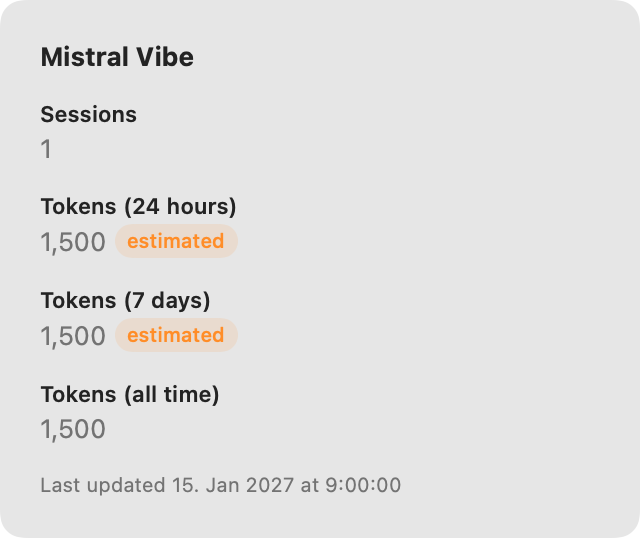
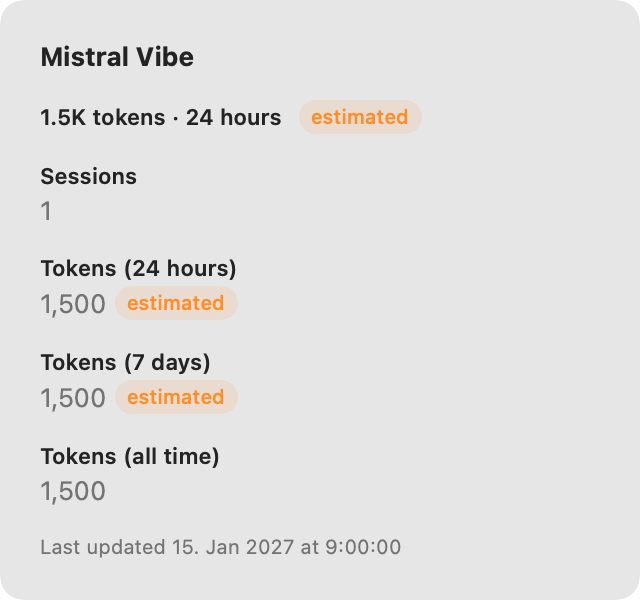
Pre-clear log: session 7 final handoff — 4.4 glance line, 17/17 tasks
Spec, CHANGELOG, verification README, plan (task 4.4 + execution log),
PROJECT_STATE, session log, and index synced. Fresh Release build
handed off and running.

Generated by Mistral Vibe.

diff --git a/docs/plans/2026-10-29-multi-provider-hud/IMPLEMENTATION_PLAN.md b/docs/plans/2026-10-29-multi-provider-hud/IMPLEMENTATION_PLAN.md
@@ -4,7 +4,7 @@
 > Repair scheduling errors while preserving task IDs, completed evidence and approved scope.
 > Task state/evidence is authoritative here; TASKS links here and holds backlog/inbox.
 
-**Progress:** 16/16 code tasks (v1 13 + Wave 4) + E1 passed; external acceptance: E2 (notarized 0.1.0 release); user glance-verification of the Wave 4 UI on the running build.
+**Progress:** 17/17 code tasks (v1 13 + Wave 4) + E1 passed; external acceptance: E2 (notarized 0.1.0 release); user glance-verification of the Wave 4 UI on the running build.
 **Task states:** unchecked = pending / implemented-unverified / blocked (name gate);
 checked = complete with required evidence. Task identity includes this plan path plus ID.
 
@@ -171,6 +171,13 @@ criteria must pass). Summary:
   - Success: full suite green; fixture renders refreshed for the new states (collapsed headline, expanded detail, Vibe with budget); verification README updated
   - Backpressure: full suite + regenerated renders
 
+- [x] **4.4**: Vibe no-budget glance line
+  - Depends on: 4.2 (user-selected at the 4.3 handoff review: collapsed Vibe with no budget showed nothing)
+  - Owns: `VibeJournalAggregator.swift` (per-session window totals), `VibeUsageProvider.swift`, `ProviderModels.swift` (`SectionGlanceLine`), `UsageStatusView.swift` (glance rendering + tooltip)
+  - Interface: sections without a headline can carry a compact preformatted glance line
+  - Success: collapsed Vibe (no budget, recent activity) shows "≈ $X · N tokens · 24 hours" (spend only when every contributing session's model price resolves — the same all-or-nothing rule as the cost line; tokens-only otherwise); estimate-labeled; suppressed when the window is empty; renders refreshed
+  - Backpressure: provider tests (glance construction, price suppression, budget precedence, empty window) + full suite
+
 ## External checks
 
 - [x] **E1**: Fresh-build smoke test (user-operated) — **passed 2026-10-29** (session 5: user screenshots + live compare against ChatGPT/Codex, Claude, and Mistral usage pages; hotkey toggled; Codex 11% used ↔ ChatGPT 89% left, same reset time; Claude endpoint 2xx after sign-in refresh — 0%/7-day matches Claude's page; Vibe populates; absent-provider states covered by 3.2 fixture renders; the app itself never prompted for or stored credentials). **Acceptance follow-ups recorded:** (1) user requests headline "% left until next reset" + details (tokens etc.) behind hover/click — new scoped change, spec/plan update pending; (2) number-formatting defects seen live (Codex credits "74,172,73", Vibe tokens "42,817.996"); (3) Claude 5-hour window absent in the live section despite the web page showing a current-session window — investigate during that change.
@@ -208,6 +215,7 @@ criteria must pass). Summary:
 | Wave 2 (2.1→2.2→2.3) 2026-10-29 | Serial coordinator execution — integration tasks share the views/composition-root surface, so no independent fresh-context work existed; delegation offered no benefit | `xcodegen generate` + full `xcodebuild test` (app-hosted, user-authorized for this wave) green at each task boundary: 98/98 (2.1), 112/112 (2.2), 116/116 (2.3) — new coverage: CodexUsageProviderTests (identity, section mapping incl. resets/expiry/unlimited/zero-passes, error→state mapping), ClaudeUsageProviderTests (endpoint meters/deadlines incl. both resets_at formats, labeled local fallback, not-detected, 403 fallback, 429 retains unavailable, transport failure), VibeUsageProviderTests (scan rows + cost when model resolves, cost omitted when unresolvable, unattributed windows flagged as estimates, skipped/malformed notes, absent/empty store), UsagePreferencesTests (injected defaults suite) | Three task commits: "Wave 2 task 2.1: multi-provider HUD views, Codex provider conformance, composition root" (62cc4ae), "Wave 2 task 2.2: Claude and Vibe sections live" (aa94c96), "Wave 2 task 2.3: preferences, renewal timers, menu parity" (bbdd5e6) | Wave 3 ready (3.1 and 3.2 after 2.3); E1/E2 open. Note: meters render utilization ("X% used") rather than CUS's "X% remaining" — the normalized model carries one utilization fraction for all providers; E1 acceptance can revisit wording. Interactive behaviors (hotkey toggle, live sections populating, restart) fold into E1 |
 | Wave 3 (3.1 ∥ 3.2) 2026-10-29 | 2 parallel fresh-context agents (release pipeline; verification/renders) — disjoint file ownership; coordinator integrated + committed. Same-session preamble: Claude endpoint diagnosis closed (401 = stale stored token; implementation verified end-to-end; labeled fallback engaged as designed; endpoint stays primary) — commit 38ecefb | 3.1: real `release.sh 0.1.0` run — universal unsigned build (`lipo`: x86_64 arm64), CFBundleShortVersionString 0.1.0 match, second run refuses overwrite (exit 1); `zsh -n` on both scripts; notarize script NOT executed (E2 credentials). CI implemented + YAML-validated; **CI green-on-push unverifiable — repo has no git remote**. 3.2: full suite (app-hosted, user-authorized this session) 116/116 baseline then **119/119 green** with the 3 new SectionFixtureRenderTests, re-run confirmed with byte-identical renders; 15 fixture PNGs (3 providers × 5 states) checked in under `docs/verification/2026-10-29-multi-provider-hud/` + regeneration README; 15 #Preview declarations share the fixture catalog. Coordinator: fresh Release handoff — old Debug instance quit gracefully (PID 66578 confirmed exited), fresh `dist/0.1.0/LLM-UsageStatus.app` launched and verified (PID 93177, executable path + version 0.1.0) | "Wave 3 task 3.1: release pipeline and repo surface" (e7ef277); "Wave 3 task 3.2: full verification and fixture renders" (439a09a); dist/ artifacts intentionally uncommitted | 13/13 code tasks complete; E1 next (user-operated smoke test of the running fresh artifact — run Claude Code once first to refresh the stale token, then check the Claude section shows endpoint utilization); E2 after E1. Open notes: Codex estimate-fallback fixture exercises view capability only (Codex section never sets isEstimate — documented in verification README); .gitignore lacks a dist/ entry (decide at E2 whether release evidence is committed) |
 | Wave 4 (4.1→4.2→4.3) 2026-10-29 | Serial coordinator execution — model/view/provider changes share the section surface; no independent fresh-context work. Design accepted by the user at E1 review (Both expand+hover / Budget-per-day quote / Vibe manual budget + token-first fallback); spec amended before coding | 4.1: headline-first sections — `SectionHeadline`/`SectionDailyBudget` model, Codex weekly headline with credits-per-day quote, Claude soonest-reset headline, "% left" meters, click-to-expand + `.help()` hover summary, Claude window-presence diagnostics (live evidence 16:31: five_hour present util=200%, seven_day 0% — the E1 "missing five-hour meter" was never an absent window). 4.2: persisted Vibe budget (USD + reset day, AppKit editor window via right-click menu), estimated % left + $/day headline that suppresses when the cost cannot resolve. Full suite **129/129 green** (10 new tests: headline mappings, budget math, reset-date clamping, preference persistence, malformed-defaults rejection). 4.3: 18 fixture renders (15 expanded + 3 collapsed headline incl. vibe-budget) checked in; verification README updated. The two "formatting defects" from the E1 screenshots did not reproduce in code (credits/tokens both format via locale-aware grouped formatting; `totalTokens` is an Int) — recorded as screenshot-transcription artifacts, user re-verifies visually | "Wave 4 tasks 4.1+4.2: headline-first sections and Vibe monthly budget" (cdff3e0); "Wave 4 task 4.3: fixture render refresh (18 states)" (09a524a); spec + CHANGELOG amended (pre-clear commit) | All code tasks complete; fresh Wave-4 Release 0.1.0 build handed off and running (PID 25354) — user glance-verifies the new UI (headline, expand/collapse, hover, budget editor). Remaining: **E2** — notarized 0.1.0 (signing credentials + explicit publish go-ahead). Backlog item 10 (Vibe per-model cost sums) still open; Inbox items unchanged |
+| Task 4.4 (serial coordinator) 2026-10-29 | User-selected scope at the 4.3 handoff review (collapsed Vibe without a budget showed only "Last updated") — design: "Both" = estimated 24h spend + token count, estimate-labeled | Aggregator gained per-session window totals (model binding retained; fixed a control-flow bug where the per-session append sat after the remainder guard); provider builds the glance line with the same all-or-nothing price rule as the cost line; view renders it when no headline exists (tooltip included); fixtures updated. Full suite **133/133 green** (4 new glance tests); 18 renders regenerated | See pre-clear commit for the 4.4 code commit; renders checked in under docs/verification | Same as Wave 4: user glance-verification on the running build, then E2 |
 
 ---
 

diff --git a/docs/sessions/2026-10-29.md b/docs/sessions/2026-10-29.md
@@ -262,30 +262,54 @@ user-accepted headline-first presentation redesign (Wave 4).
   (Shared) so the provider reads them without an actor hop; `UserDefaults` is thread-safe
   but not Sendable, handled with `nonisolated(unsafe)` + a documented justification.
 
-## Resume (pre-clear, end of 2026-10-29 — session 6, final)
+## Session 7 — Task 4.4: Vibe no-budget glance line
 
-**Pickup:** The user glance-verifies the running Wave-4 build: press Control-Option-Command-L —
-each section should lead with "X% left · resets in …" (Codex adds "≈ N credits/day"; Claude
-leads with the five-hour window while it resets sooner); click a section to expand/collapse;
-hover for the tooltip summary; right-click → "Set Vibe Monthly Budget…" to exercise the
-budget editor (e.g. $300, resets on day 1) and watch the Vibe headline appear (labeled
-estimate). Confirm the numbers read correctly (the E1 screenshot "defects" were transcription
-artifacts — re-check the credits and token groupings visually). Then **E2** on explicit
-go-ahead: `scripts/notarize-release.sh 0.1.0` per the master's distribution guidance (needs
-Developer ID signing credentials + notarytool key). 16/16 plan code tasks complete with
-evidence; E1 passed.
+**Goal:** Make the collapsed Vibe section glance-able when no monthly budget is set
+(user question at the panel review: Mistral's own Limits page is money-first; ours
+showed only "Last updated").
 
-- Keep-running: LLM-UsageStatus (PID 25354) is running from the fresh Wave-4 Release artifact —
+**Actions Taken:**
+- [x] Answered the constraint honestly: Mistral publishes no usage API, so their
+      $17.47/$300 numbers are unreachable; the budget feature replicates the Limits-page
+      glance from local estimates. User chose "Both": estimated 24h spend + token count.
+- [x] Task 4.4 (commit 4d8e035): aggregator gained per-session window totals (model
+      binding retained); provider builds the glance line under the same all-or-nothing
+      price rule as the cost line; view renders it when no headline exists (tooltip too);
+      estimate-labeled; suppressed on a silent window. Found and fixed an aggregator
+      control-flow bug (per-session append skipped for fully-timestamped sessions — the
+      `continue` after the remainder guard). 133/133 tests green (4 new); 18 renders
+      regenerated. Spec + CHANGELOG + verification README updated.
+- [x] Provider-logo idea (vendor marks in section headers) captured to TASKS Inbox
+      (commit 61cc6ef) with trademark/template-rendering considerations.
+- [x] Fresh Release build via `release.sh 0.1.0`; old instance (PID 25354) quit
+      gracefully and confirmed exited; fresh artifact launched (PID 38863, executable
+      path + version 0.1.0 verified).
+
+**Decisions:**
+- Window-scoped cost keeps the cost line's all-or-nothing integrity rule: if any
+  contributing session's model price is unresolvable, the glance line shows tokens only.
+- A silent 24h window shows no glance line rather than "$0 · 0 tokens".
+
+## Resume (pre-clear, end of 2026-10-29 — session 7, final)
+
+**Pickup:** The user glance-verifies the running build: Control-Option-Command-L —
+headlines (Codex "89% left · ≈11K credits/day", Claude five-hour while it resets soonest),
+the Vibe glance line ("≈ $X · N tokens · 24 hours" without a budget, or the budget headline
+after right-click → "Set Vibe Monthly Budget…"), click-to-expand, hover tooltips. Then **E2**
+on explicit go-ahead: `scripts/notarize-release.sh 0.1.0` (needs Developer ID signing
+credentials + notarytool key). 17/17 plan code tasks complete with evidence; E1 passed.
+
+- Keep-running: LLM-UsageStatus (PID 38863) is running from the fresh 4.4 Release artifact —
   folder `/Users/sim/ProgrammingProjects/1-macOS/LLM-UsageStatus/dist/0.1.0`,
   app `LLM-UsageStatus.app` (version 0.1.0, universal, unsigned), launched under the standing
   fresh-build handoff authorization, executable path verified. It holds the global hotkey; do
-  not quit it without user instruction. Its first Claude fetch at 16:31 succeeded (2xx).
-- Uncommitted work: only this pre-clear log/state/spec/CHANGELOG update (code committed
-  through 09a524a on `main`; dist/ artifacts intentionally untracked; no push — none
-  authorized, no remote configured).
-- Deferred items: TASKS Backlog item 10 (Vibe cost line with mixed models — scope decision,
-  now partially mitigated: the budget headline also suppresses on unresolved cost) plus
-  2 in Inbox (icon design; Vibe "all time" totals fluctuation, unconfirmed).
+  not quit it without user instruction.
+- Uncommitted work: only this pre-clear log/state update (code committed through 4d8e035 on
+  `main`; dist/ artifacts intentionally untracked; no push — none authorized, no remote
+  configured).
+- Deferred items: TASKS Backlog item 10 (Vibe cost line with mixed models) plus 3 in Inbox
+  (icon design; Vibe "all time" totals fluctuation, unconfirmed; provider logos in section
+  headers, trademark considerations noted).
 - Half-done edits: none. App-hosted test scope was user-authorized for this session; re-confirm
   before any future test run.
 - Model fit: routine-capable settings — the next actions are the user's visual verification

diff --git a/docs/PROJECT_STATE.md b/docs/PROJECT_STATE.md
@@ -1,6 +1,6 @@
 # PROJECT_STATE — LLM-UsageStatus
 
-**Last updated:** 2026-10-29 (pre-clear, session 6 final)
+**Last updated:** 2026-10-29 (pre-clear, session 7 final)
 
 ## Identity
 
@@ -15,10 +15,11 @@ Developer ID signed, notarized, zero configuration for end users.
 
 ## Now
 
-- **Execution:** Plan active at `docs/plans/2026-10-29-multi-provider-hud/IMPLEMENTATION_PLAN.md` — **16/16 code tasks** (v1 13 + Wave 4) and **E1 passed**; only gate **E2** remains: notarized 0.1.0 (Developer ID signing credentials + notarytool key + explicit publish go-ahead). Wave 4 — the user-accepted headline-first redesign — shipped: percent-left headlines with reset countdowns and estimated per-day quotes, click-to-expand detail + hover tooltips, "% left" meters, optional Vibe monthly budget (AppKit editor + persisted preference). 129/129 tests, 18 fixture renders. Fresh Wave-4 Release build running (keep-running; holds the hotkey). **Open:** user visual confirmation of the new panel, then E2 on go-ahead.
+- **Execution:** Plan active at `docs/plans/2026-10-29-multi-provider-hud/IMPLEMENTATION_PLAN.md` — **17/17 code tasks** (v1 13 + Wave 4 incl. 4.4 Vibe glance line) and **E1 passed**; only gate **E2** remains: notarized 0.1.0 (Developer ID signing credentials + notarytool key + explicit publish go-ahead). The HUD is now fully glance-first: percent-left headlines with countdowns and per-day quotes (Codex/Claude/Vibe-with-budget), and a last-24-hours estimated-spend + tokens glance line for Vibe without a budget; detail behind click/hover. 133/133 tests, 18 fixture renders. Fresh Release build running (keep-running; holds the hotkey). **Open:** user visual confirmation of the running panel, then E2 on go-ahead.
 
 ## Recent
 
+- 2026-10-29: Task 4.4 (user-selected at the panel review): Vibe without a budget shows a last-24-hours glance line (estimated spend + tokens); fixed an aggregator control-flow bug found on the way. Provider-logo idea captured to Inbox. Fresh Release build handed off.
 - 2026-10-29: E1 passed (live compare against all three vendor dashboards; Claude endpoint proven 2xx after the sign-in refresh). Wave 4 executed serially: headline-first sections, expand/hover detail, Vibe monthly budget; Claude window diagnostics landed — five-hour window confirmed present with over-limit utilization. Fresh Release build handed off.
 - 2026-10-29: Wave 3 executed (2 parallel fresh-context agents): 3.1 release pipeline + repo surface (universal build verified, CI unverified — no remote), 3.2 full verification (119/119 green, 15 fixture renders). Claude endpoint diagnosis resolved (401 = stale token). Fresh dist/0.1.0 Release build handed off and running.
 - 2026-10-29: Post-wave HUD review (user screenshots) drove three fixes: malformed-line misclassification (structural records skip silently), Keychain match-all errSecParam (match-one fallback), and 401/403-blind diagnostics (HTTP status + blob key-name logging). Claude endpoint outcome pending the Keychain prompt; Vibe all-time totals instability captured to Inbox.
@@ -27,5 +28,5 @@ Developer ID signed, notarized, zero configuration for end users.
 
 ## Handoff
 
-- Current handoff: `docs/sessions/2026-10-29.md` → **Resume (pre-clear, end of 2026-10-29 — session 6, final)** — user glance-verifies the running Wave-4 build (headline, expand/collapse, hover, budget editor), then E2 (notarized 0.1.0) on explicit go-ahead.
+- Current handoff: `docs/sessions/2026-10-29.md` → **Resume (pre-clear, end of 2026-10-29 — session 7, final)** — user glance-verifies the running build (headline sections, glance line, expand/collapse, hover, budget editor), then E2 (notarized 0.1.0) on explicit go-ahead.
 - Decisions: `docs/decisions.md`

diff --git a/specs/multi-provider-usage-hud.md b/specs/multi-provider-usage-hud.md
@@ -56,7 +56,9 @@ end user.
    derived cost) from `~/.vibe/logs/session/unified/*/journal/*.jsonl`. Optionally, the user can
    set a monthly budget (amount + reset day; Mistral publishes no allowance API): with a budget,
    the section leads with an estimated percent-left headline and a dollars-per-day quote derived
-   from the local cost estimate; without one, it stays token-first with no percentage.
+   from the local cost estimate; without one, it stays token-first with no percentage but shows a
+   compact glance line of the last 24 hours (estimated spend where every contributing session's
+   model price resolves, plus the token count), visibly labeled as an estimate.
 4. **Provider isolation** — a missing CLI shows "not detected"; a failing refresh shows the last
    good values with a failure message; providers never break each other.
 5. **HUD interaction** — same interaction model as CodexUsageStatus: global hotkey toggle,
@@ -121,6 +123,10 @@ end user.
 - [ ] Given the user configured a Vibe monthly budget, when the Vibe section refreshes, then the
       headline shows an estimated percent left and dollars-per-day quote until the configured
       reset; given no budget is configured, then the Vibe section shows no percentage.
+- [ ] Given no budget is configured but the Vibe store has recent activity, when the HUD renders,
+      then the collapsed Vibe section shows a compact last-24-hours glance line (estimated spend
+      when fully price-resolvable, plus token count), visibly labeled as an estimate; given no
+      activity in the window, then no glance line is shown.
 - [ ] Given any quantity is rendered, when it is formatted, then thousands grouping is correct and
       consistent for the user's locale (no mangled separators).
 

diff --git a/docs/sessions/_index.md b/docs/sessions/_index.md
@@ -2,4 +2,4 @@
 
 | Date | Log | Summary |
 |---|---|---|
-| 2026-10-29 | [2026-10-29.md](2026-10-29.md) | Spec + 13-task plan; Waves 1–3 (91/91 → 119/119 tests, release pipeline, 15 fixture renders); Claude token-path diagnosis closed (401 = stale token). Session 6: E1 passed (live compare against all three vendor dashboards, endpoint 2xx after sign-in refresh); Wave 4 headline-first redesign shipped (percent-left headlines + per-day estimates, click/hover detail, Vibe monthly budget, 129/129 tests, 18 renders); fresh Release build handed off. Next: user verifies the new panel, then E2 notarized 0.1.0 |
+| 2026-10-29 | [2026-10-29.md](2026-10-29.md) | Spec + 13-task plan; Waves 1–3 (91/91 → 119/119 tests, release pipeline, 15 fixture renders); Claude token-path diagnosis closed (401 = stale token). E1 passed (live compare against all three vendor dashboards, endpoint 2xx after sign-in refresh); Wave 4 headline-first redesign (percent-left headlines + per-day estimates, click/hover detail, Vibe monthly budget, 133/133 tests, 18 renders); task 4.4 Vibe no-budget glance line (estimated 24h spend + tokens); provider-logo idea to Inbox. Next: user verifies the running panel, then E2 notarized 0.1.0 |

diff --git a/CHANGELOG.md b/CHANGELOG.md
@@ -16,7 +16,9 @@ and this project adheres to [Semantic Versioning](https://semver.org/).
   hover for a compact tooltip summary. Meters read "X% left".
 - Optional Mistral Vibe monthly budget (amount + reset day, right-click menu):
   with a budget set, the Vibe headline shows an estimated percent left and
-  dollars-per-day quote; without one, the section stays token-first.
+  dollars-per-day quote; without one, the section shows a compact
+  last-24-hours glance line (estimated spend where price-resolvable, plus
+  token count).
 - Privacy-safe Claude endpoint diagnostics (window presence and utilization).
 - Initial dockless multi-provider usage HUD, summoned with Control-Option-Command-L.
 - One section per installed CLI — Codex, Claude Code, and Mistral Vibe — with

diff --git a/docs/verification/2026-10-29-multi-provider-hud/README.md b/docs/verification/2026-10-29-multi-provider-hud/README.md
@@ -21,6 +21,9 @@ cd 01_Project && xcodebuild -project LLM-UsageStatus.xcodeproj -scheme LLM-Usage
 - After Wave 4 (headline-first sections, Vibe monthly budget; task 4.3):
   129 tests, 0 failures — `** TEST SUCCEEDED **`, all 18 renders regenerated
   (15 expanded states + 3 collapsed headline variants).
+- After task 4.4 (Vibe no-budget glance line): 133 tests, 0 failures —
+  `** TEST SUCCEEDED **`, renders regenerated again (the Vibe fixtures now
+  carry the last-24-hours glance line).
   The 3 new tests are `SectionFixtureRenderTests` (one per provider, app-hosted).
 
 No existing test failed at any point; no app source was changed for this task.
